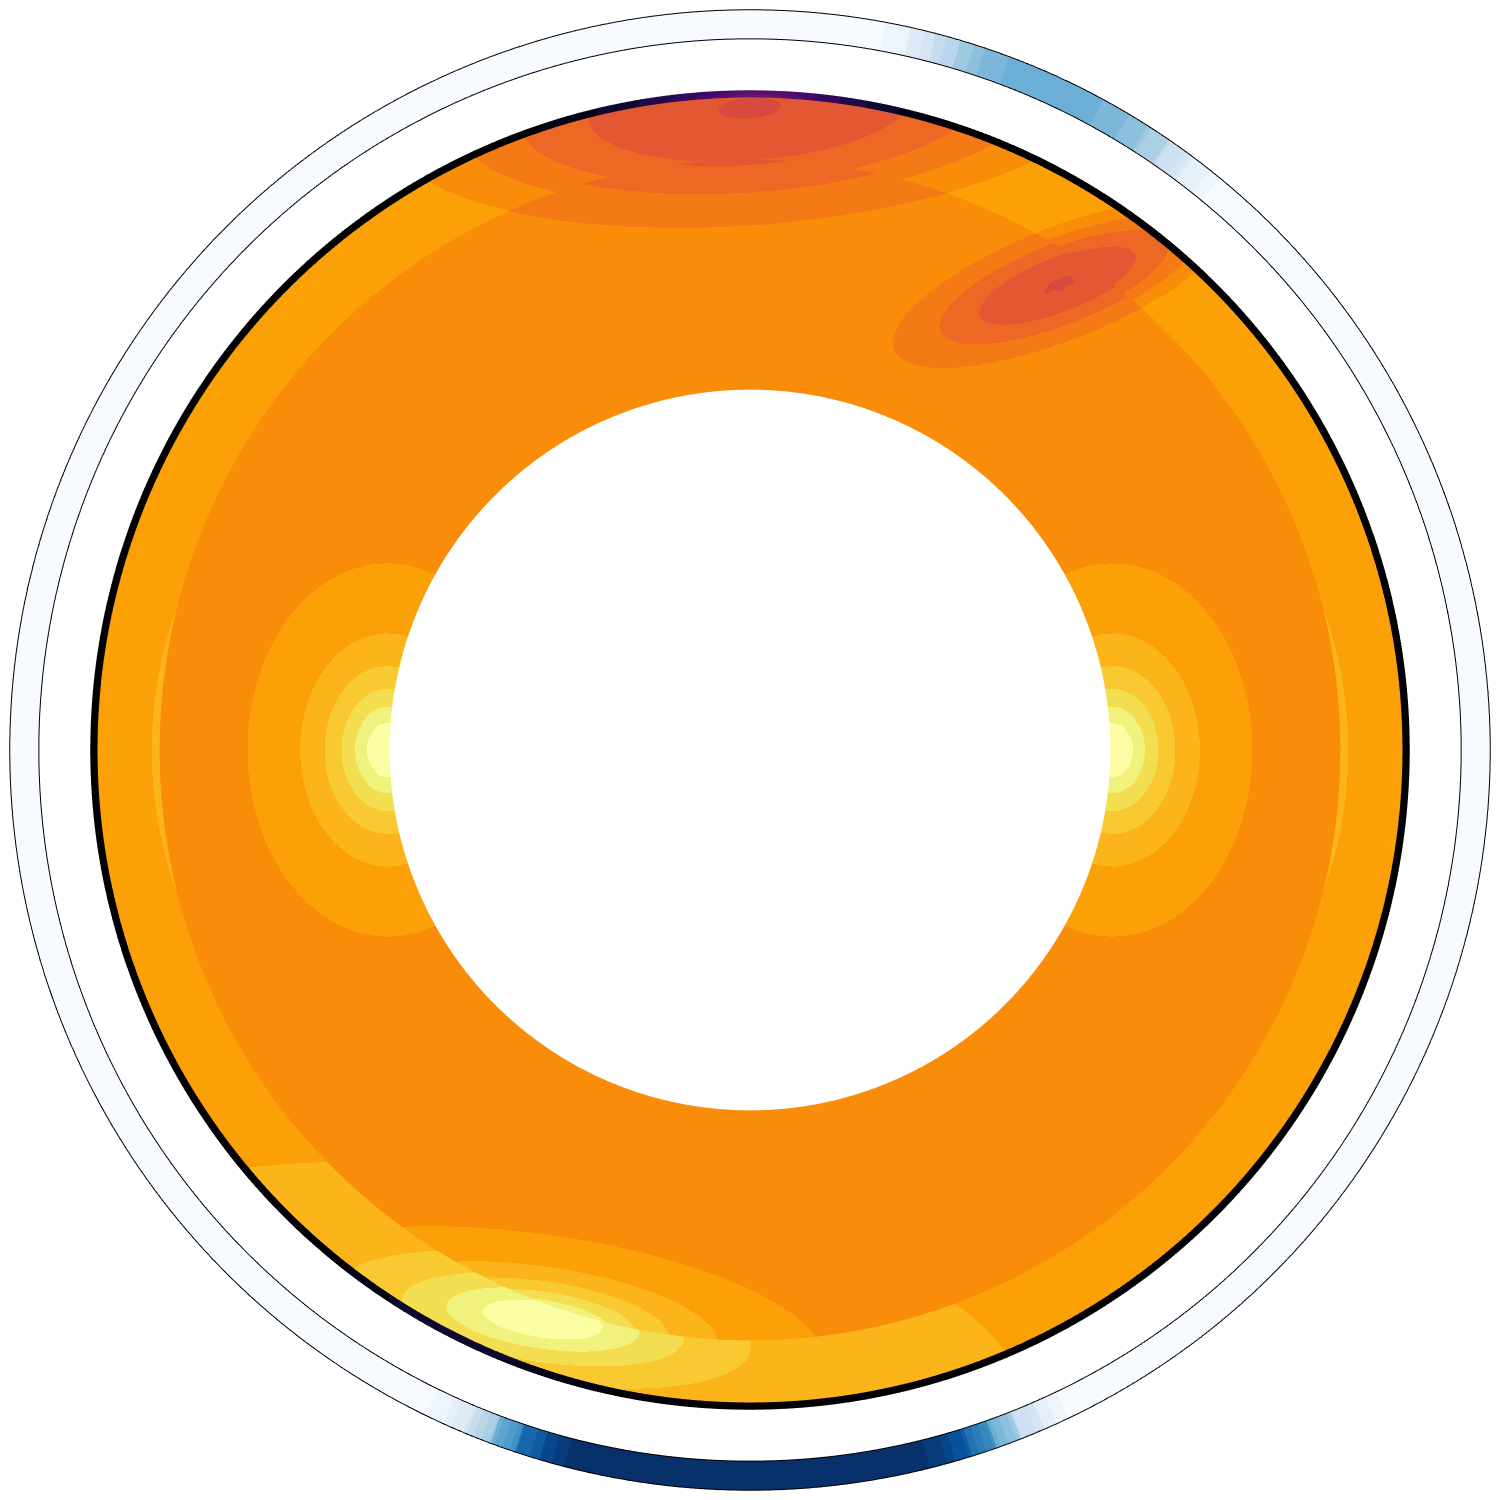
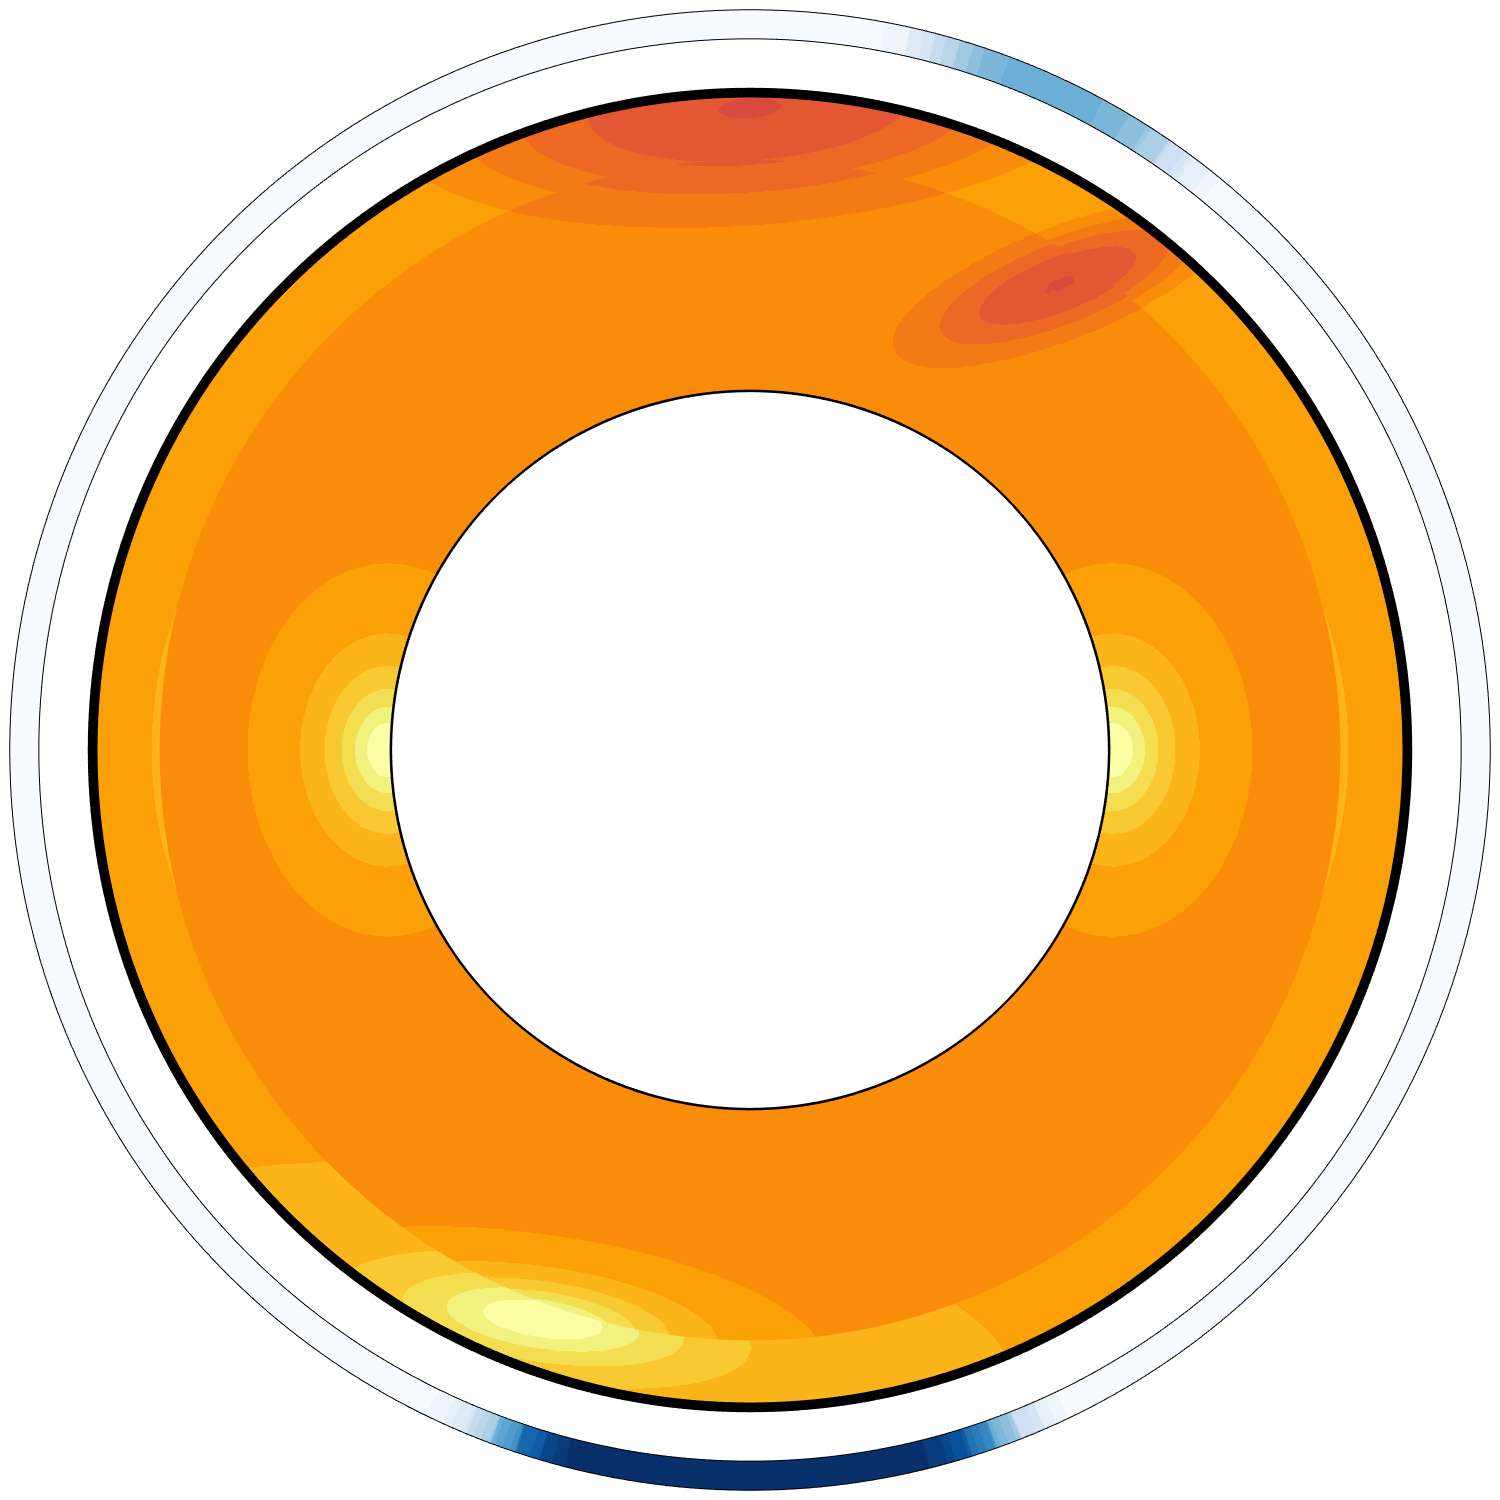
updates to forward cylindrical setup

Changed region(s): [[0.3987, 0.0307, 0.6133, 0.092], [0.3067, 0.8893, 0.368, 0.92], [0.2453, 0.8587, 0.3067, 0.8893]]

diff --git a/runscripts/internal_variable_adjoint/plotting/plot_figure8a_visc_ice_forward.py b/runscripts/internal_variable_adjoint/plotting/plot_figure8a_visc_ice_forward.py
@@ -1,0 +1,61 @@
+import matplotlib.pyplot as plt
+import matplotlib
+from matplotlib import colormaps, colors
+import numpy as np
+import pandas as pd
+from matplotlib.cm import ScalarMappable
+
+
+
+fig, ax = plt.subplots(1, 2, figsize=(5.75,3.5), dpi=300, layout="constrained")
+
+# fonts and linewidths etc
+fs = 7.5
+fs_lab = 8
+ms = 0.75
+lw = 0.75
+
+
+visc_1d = plt.imread('visc1d.png')
+ax[0].imshow(visc_1d)
+ax[0].axis('off')
+
+
+ax[0].annotate(
+            f"1D viscosity",
+            xy=(-0.02, 1.005), xycoords='axes fraction',
+            xytext=(+0.4, -0.4), textcoords='offset fontsize',
+            fontsize=fs, verticalalignment='top',
+            bbox=dict(facecolor='white', edgecolor='black', pad=3.8))
+
+visc_3d = plt.imread('visc3d.png')
+ax[1].imshow(visc_3d)
+ax[1].axis('off')
+ax[1].annotate(
+            f"3D viscosity",
+            xy=(-0.02, 1.005), xycoords='axes fraction',
+            xytext=(+0.4, -0.4), textcoords='offset fontsize',
+            fontsize=fs, verticalalignment='top',
+            bbox=dict(facecolor='white', edgecolor='black', pad=3.8))
+
+
+# Add colour bars
+# visc cbar
+visc_cmap = plt.get_cmap("inferno_r", 25)
+visc_cbar = ScalarMappable(norm=colors.LogNorm(vmin=1e20, vmax=1e25), cmap=visc_cmap)
+visc_cbar2 = fig.colorbar(visc_cbar,
+             ax=ax[0], orientation='horizontal', label='Viscosity (Pa s)', fraction=0.03, shrink=0.75) # ticks=[1e20, 1e21, 1e22, 1e23,1e24,1e25])
+
+visc_cbar2.ax.tick_params(labelsize=fs)
+visc_cbar2.set_label(label='Viscosity (Pa s)', size=fs_lab)
+# visc misfit cbar
+ice_cmap = plt.get_cmap("Blues", 25)
+ice_cbar = ScalarMappable(norm=colors.Normalize(vmin=0, vmax=2000), cmap=ice_cmap)
+ice_cbar2 = fig.colorbar(ice_cbar,
+             ax=ax[1], orientation='horizontal', label='Ice thickness (m)', fraction=0.03, shrink=0.75)
+
+ice_cbar2.ax.tick_params(labelsize=fs)
+ice_cbar2.set_label(label='Ice thickness (m)', size=fs_lab)
+figname = "Figure_8a_visc_ice_forward_12.08.25"
+fig.savefig(f'{figname}.png')
+

diff --git a/runscripts/internal_variable_adjoint/plotting/plot_visc.py b/runscripts/internal_variable_adjoint/plotting/plot_visc.py
@@ -11,12 +11,13 @@ height = round(height_inches*dpi)
 
 # Read the PVD file
 visc_1d_file = "forward-cylinder-2d-internalvariable-dispvel--1dviscTrue-visc/forward-cylinder-2d-internalvariable-dispvel--1dviscTrue-visc_0.pvtu"
-visc_3d_file = "forward-cylinder-2d-internalvariable-dispvel--1dviscFalse-visc/forward-cylinder-2d-internalvariable-dispvel--1dviscFalse-visc_0.pvtu"
+visc_3d_file = "forward-cylinder-2d-internalvariable-dispvel-lithvisc-1dviscFalse-visc/forward-cylinder-2d-internalvariable-dispvel-lithvisc-1dviscFalse-visc_0.pvtu"
 
 ice_file = 'discfile_0.vtu'
 
 radius = 2.2
 zoom =4.25
+lw = 5
 reader_1d = pv.get_reader(visc_1d_file)
 reader_3d = pv.get_reader(visc_3d_file)
 data_1d = reader_1d.read()  # MultiBlock mesh with only 1 block
@@ -44,7 +45,7 @@ transformed_surf = clipped_surf.transform(transform_matrix)
 ice_cmap = plt.get_cmap("Blues", 25)
 ice_lw = 28
 
-# Plot viscosity
+
 data_1d['viscosity'] *= 1e21
 data_3d['viscosity'] *= 1e21
 
@@ -52,6 +53,10 @@ data_3d['viscosity'] *= 1e21
 boring_cmap = plt.get_cmap("inferno_r", 25)
 # Create a plotter object
 plotter = pv.Plotter(window_size=(width, height),  border=False, notebook=False, off_screen=True)
+# add outline of domain
+plotter.add_mesh(surf, color='black',line_width=lw, lighting=False,show_scalar_bar=False)
+
+# Plot viscosity
 # Add the warped displacement field to the frame
 plotter.add_mesh(
     data_1d,
@@ -76,6 +81,11 @@ plotter.camera_position = [(0, 0, radius*zoom),
 plotter.screenshot("visc1d.png")
 
 plotter = pv.Plotter(window_size=(width, height),  border=False, notebook=False, off_screen=True)
+
+# add outline of domain
+plotter.add_mesh(surf, color='black',line_width=lw, lighting=False,show_scalar_bar=False)
+
+# add viscosity
 plotter.add_mesh(
     data_3d,
     component=None,
